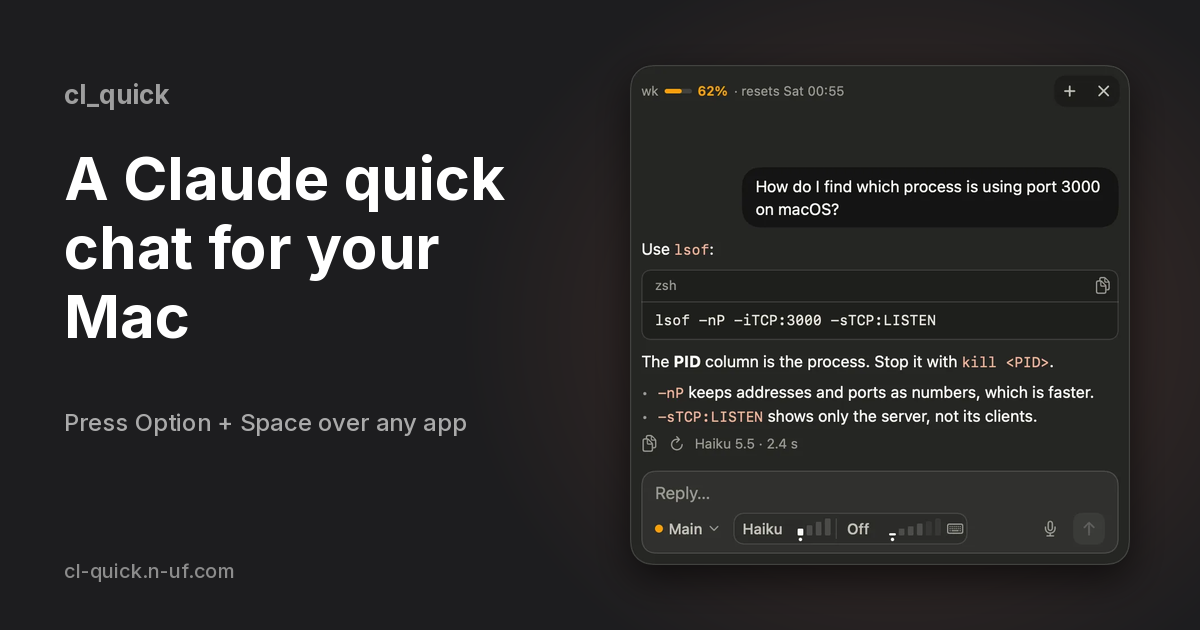
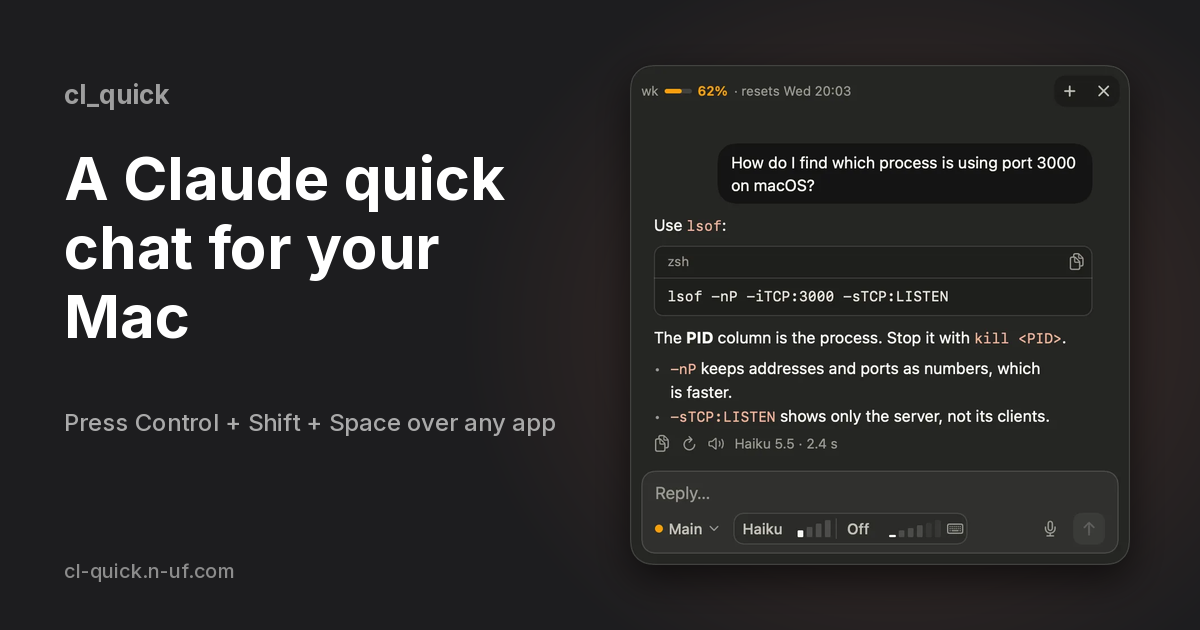
share cards: the home card says Control + Shift + Space (the default since 26.11.1); all three re-rendered with the 26.11.1 pictures

diff --git a/scripts/render-og.py b/scripts/render-og.py
@@ -17,7 +17,7 @@ ROOT = os.path.normpath(os.path.join(os.path.dirname(__file__), ".."))
 W, H = 1200, 630
 # out file, small label, headline, sub line, picture (a file in public/img), picture box (width, height)
 CARDS = [
-    ("public/og.png", "cl_quick", "A Claude quick chat for your Mac", "Press Option + Space over any app", "qc-answer.webp", (500, 500)),
+    ("public/og.png", "cl_quick", "A Claude quick chat for your Mac", "Press Control + Shift + Space over any app", "qc-answer.webp", (500, 500)),
     ("public/og/install.png", "cl_quick · Install", "Install cl_quick", "Apple silicon · macOS 13 or later · Claude Code, signed in", "qc-bar.webp", (520, 120)),
     ("public/og/faq.png", "cl_quick · FAQ", "Questions about cl_quick", "Incognito, accounts, limits, model and thinking", "qc-full.webp", (520, 228)),
 ]
